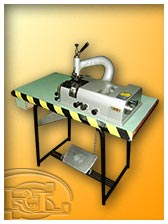
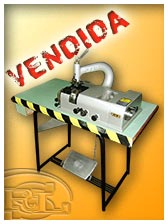
Added: Lijar de banda 'FERCA M-1010'. Updated: 'Ultimas' and some more...

diff --git a/maquinas/lijar-pulir/maqUs_maquina-lijar-de-banda_FERCA_M-1010.htm b/maquinas/lijar-pulir/maqUs_maquina-lijar-de-banda_FERCA_M-1010.htm
@@ -3,11 +3,10 @@
 
 <head>
 <meta http-equiv="Content-Type" content="text/html; charset=utf-8" />
-<title>RaLoS, Maquinaria USADA para Calzado | Máquina de Rebajar Piel con Aspiración y Embrague 'FAV AV2' (#1)</title>
-<meta name="keywords" content="fav av 2, fav av2, rebajar piel fav, rebajar piel, maquinaria rebajar piel, máquina rebajadora piel, máquina rebajar piel, máquina rebajar zapato, máquina rebajar zapatos, máquina rebajadora calzado, máquina rebajar calzado, máquina rebajadora zapato, máquina rebajadora zapatos, rebajar piel, rebajar segunda mano, rebajar ocasión, rebajar segunda mano, maquinaria usada zapatos, maquinas usadas zapatos, segunda mano, ocasion, ralos, Elda, Alicante" />
-
-<meta name="description" content="RaLoS, Maquinaria USADA para Calzado - Máquina de OCASIÓN para Rebajar Piel con Aspiración y Embrague 'FAV AV2'" />
-<meta name="creation_Date" content="04/01/2014" />
+<title>RaLoS, Maquinaria USADA para Calzado | Máquina de Lijar de Banda con Aspiración 'FERCA M-1010'</title>
+<meta name="keywords" content="lijar ferca, lijar ferca M-1010, lijar ferca M1010, ferca, ferca M-1010, ferca M1010, lijar segunda mano, lijar ocasion, lijar usada, maquina lijar, maquina lijar bandas, lijar bandas, lijar calzado, lijar zapatos, maquinaria lijar, lijado calzado, lijado zapatos, maquina cardar, cardar zapatos, cardar calzado, lijadoras, ralos, Elda, Alicante" />
+<meta name="description" content="RaLoS MAQUINARIA, dispone de una máquina de lijar de Banda, con aspiración y colector, de OCASIÓN para el Lijado del Zapato 'FERCA M-1010'" />
+<meta name="creation_Date" content="01/10/2014" />
 <meta name="geography" content="Fundadores de la Industria del Calzado, 4 (Bajos) - Elda (Alicante) 03600 SPAIN" />
 <meta name="language" content="spanish, español" />
 <meta name="robots" content="index, nofollow" />
@@ -71,7 +70,7 @@ counter++;
         </div>
     </div>
   </div>
-
+  
   <div id="mCFixedToLeft">
     <div id="mCFixedLeftMenu">
         <div id="mCFixedLeftMenuButtons">
@@ -87,15 +86,15 @@ counter++;
     <div class="divider4" style="min-height: 20px;"></div>
   	<div id="mainLogo"><a href="../../index.htm" target="_parent"><img src="../../assets/logoRalos.gif" alt="Inicio" name="logoRalos" width="324" height="102" border="0" /></a></div>
   	<!--<div id="mainLogoBg"></div>-->
-  	<div class="divider1"></div>
-		<h1 style="text-decoration: none; margin-bottom: 0px">RaLoS, MAQUINARIA USADA: Máquina de Rebajar Piel con Aspiración y Embrague &quot;FAV AV2&quot; (#1) (VENDIDA)</h1>
+<div class="divider1"></div>
+		<h1 style="text-decoration: none; margin-bottom: 0px">RaLoS, MAQUINARIA USADA: Máquina de Lijar de Banda &quot;FERCA&nbsp;M&#8209;1010&quot;</h1>
     <div class="divider2"></div>
     <div id="productContainer">
 			<ul>       
         <li id="n001">
         	<div class="liContainer"><a href="#n002" target="_self" title="Haz clic aquí para ir a la siguiente imagen.">
             <img class="outerImg" src="../../images/_mac_vOuterFrame_mTn.png" alt=""/>
-            <img class="vInnerImg" src="maqUs_rebajar-piel-con-aspiracion-y-embrague_FAV_AV2_N1_1h-v.jpg" alt="Máquina de Rebajar Piel con Aspiración y Embrague 'FAV AV2' #1 1"/>
+            <img class="vInnerImg" src="maqUs_maquina-lijar-de-banda_FERCA_M-1010_1h-v.jpg" alt="Máquina de Lijar de Banda 'FERCA M-1010' 1"/>
             <img class="spanPosFix" src="../../images/_mac_vOuterFrameFix_mTn.gif" alt=""/>
             <span></span></a>
           </div>
@@ -103,30 +102,21 @@ counter++;
         
         <li id="n002">
         	<div class="liContainer"><a href="#n003" target="_self" title="Haz clic aquí para ir a la siguiente imagen.">
-            <img class="outerImg" src="../../images/_mac_hOuterFrame_mTn.png" alt=""/>
-            <img class="hInnerImg" src="maqUs_rebajar-piel-con-aspiracion-y-embrague_FAV_AV2_N1_2h-h.jpg" alt="Máquina de Rebajar Piel con Aspiración y Embrague 'FAV AV2' #1 2"/>
-            <img class="spanPosFix" src="../../images/_mac_hOuterFrameFix_mTn.gif" alt=""/>
+            <img class="outerImg" src="../../images/_mac_vOuterFrame_mTn.png" alt=""/>
+            <img class="vInnerImg" src="maqUs_maquina-lijar-de-banda_FERCA_M-1010_2h-v.jpg" alt="Máquina de Lijar de Banda 'FERCA M-1010' 2"/>
+            <img class="spanPosFix" src="../../images/_mac_vOuterFrameFix_mTn.gif" alt=""/>
           	<span></span></a>
           </div>
         </li>
         
         <li id="n003">
-        	<div class="liContainer"><a href="#n004" target="_self" title="Haz clic aquí para ir a la siguiente imagen.">
+        	<div class="liContainer"><a href="#productDescription" target="_self" title="Haz clic aquí para ir a la información de la máquina.">
             <img class="outerImg" src="../../images/_mac_hOuterFrame_mTn.png" alt=""/>
-            <img class="hInnerImg" src="maqUs_rebajar-piel-con-aspiracion-y-embrague_FAV_AV2_N1_3h-h.jpg" alt="Máquina de Rebajar Piel con Aspiración y Embrague 'FAV AV2' #1 3"/>
+            <img class="hInnerImg" src="maqUs_maquina-lijar-de-banda_FERCA_M-1010_3h-h.jpg" alt="Máquina de Lijar de Banda 'FERCA M-1010' 3"/>
             <img class="spanPosFix" src="../../images/_mac_hOuterFrameFix_mTn.gif" alt=""/>
           	<span></span></a>
           </div>
         </li>
-        
-        <li id="n004">
-        	<div class="liContainer"><a href="#productDescription" target="_self" title="Haz clic aquí para ir a la información de la máquina.">
-            <img class="outerImg" src="../../images/_mac_vOuterFrame_mTn.png" alt=""/>
-            <img class="vInnerImg" src="maqUs_rebajar-piel-con-aspiracion-y-embrague_FAV_AV2_N1_4h-v.jpg" alt="Máquina de Rebajar Piel con Aspiración y Embrague 'FAV AV2' #1 4"/>
-            <img class="spanPosFix" src="../../images/_mac_vOuterFrameFix_mTn.gif" alt=""/>
-          	<span></span></a>
-          </div>
-        </li> 
           
 			</ul>
 		</div><!--end #productContainer-->
@@ -137,27 +127,30 @@ counter++;
           <th colspan="4" bgcolor="#FFFFFF"><h4>DESCRIPCIÓN DE LA MÁQUINA</h4></th>
         </tr>
         <tr>
-       		<td colspan="4"><p><span class="boldText">RaLoS</span> <span class="lThrought">dispone</span> de una máquina de rebajar piel con aspiración* y embrague <span class="boldText">&quot;FAV AV2&quot;</span> de segunda mano, en perfecto estado y lista para trabajar.</p>
-						<p style="margin-top: 12px">* <span style="font-size:80%">RaLoS también disponía de otra &quot;FAV AV2&quot; igual a esta pero <span class="uText"><span class="boldText">sin</span> aspiración</span>. Puedes verla <a href="maqUs_rebajar-piel-con-embrague_FAV_AV2.htm" target="mainFrame" class="boldText">haciendo clic <span class="uText">AQUÍ</span></a>.</span></p></td>
+       		<td colspan="4"><p><span class="boldText">RaLoS</span> dispone de una máquina de lijar y cardar con aspiración y colector <span class="boldText">&quot;FERCA M-1010&quot;</span> de segunda mano, en perfecto estado y lista para trabajar.</p></td>
         </tr>
         <tr bgcolor="#FFFFFF">
           <th colspan="4"><h4>CARACTERÍSTICAS TÉCNICAS</h4></th>
         </tr>
         <tr>
           <td width="50%" colspan="2"><span class="boldText">Conex. Eléctrica: </span>380 V - 50 Hz</td>
-          <td width="50%" colspan="2"><span class="boldText">Dimens. (An./Al./Pr.):</span> 104 x 115 x 58 cm</td>
+          <td width="50%" colspan="2"><span class="boldText">Eje Útil (largo de cada lado):</span> 25 mm</td>
         </tr>
         <tr>
           <td width="50%" colspan="2"><span class="boldText">Potencia Instalada:</span> N/D</td>
+          <td width="50%" colspan="2"><span class="boldText">Dimens. (An./Al./Pr.):</span> 90 x <span style="font-style:italic;">176</span> x 100 cm</td>
+        </tr>
+        <tr>
+          <td width="50%" colspan="2"><span class="boldText">Eje (diámetro):</span> 30 mm</td>
           <td width="50%" colspan="2"><span class="boldText">Peso (Neto):</span> N/D</td>
         </tr>
         <tr bgcolor="#FFFFFF">
           <th colspan="4"><h4>CARACTERÍSTICAS DE TRABAJO</h4></th>
         </tr>
 				<tr>
-       		<td colspan="4" align="center"><p>- Gran simplicidad de funcionamiento y alta precisión en los acabados.</p>
-     		  <p>- Grupo de aspiración acoplado en el cuerpo de la máquina.</p>
-     		  <p>- Embrague para proporcionar al trabajador  un mayor control de la velocidad.</p></td>
+       		<td colspan="4"><p>La máquina de lijar y cardar <span class="boldText">&quot;FERCA M-1010&quot;</span>, está provista de bandas de esmeril de longitud suficiente para evitar el calentamiento de la superficie abrasiva (obteniéndose una larga duración de la misma), así como de tensores de fácil accionamiento para lograr el rápido cambio de la banda  y la perfecta alineación de ésta.</p>
+						<p>El sistema de tensado es de columna telescópica y resorte interior permanente, para compensar la dilatación de las bandas durante el trabajo y mantener una perfecta adherencia con los rodillos de goma.</p>
+						<p>Todo el sistema va dentro de carcasas de protección con visores de metacrilato de fácil desmontaje, lo que permite un cambio rápido de las bandas de lija. Además, la máquina  está equipada con un potente aspirador que, unido al especial diseño de las caperuzas, consigue una total aspiración del material desprendido. Igulamente, el polvo producido en el lijado es conducido por la aspiración a través de un ciclón, que lo deposita en un saco de plástico para su posterior retirada.</p></td>
         </tr>
 
         <tr id="rowInfoHead">
@@ -167,10 +160,10 @@ counter++;
         </tr>
 
         <tr id="rowInfo">
-          <td width="25%" class="boldText">No disponible</td>
+          <td width="25%" class="boldText">Disponible</td>
           <td width="50%" colspan="2">Restaurada</td>
         <!--<td width="50%" colspan="2">Máquina revisada en nuestro taller.</td>-->
-          <td width="25%"><a href="http://www.ralosmaquinaria.com/mainFrameContact.htm?Maquina+de+Rebajar+Piel+con+Aspiracion+y+Embrague&'FAV+AV2'+N1&(OCASION)#formContainer" title="Ir al Formulario de Consulta" target="_self" class="boldText">Consultar</a></td>
+          <td width="25%"><a href="http://www.ralosmaquinaria.com/mainFrameContact.htm?Maquina+de+Lijar+de+Banda+con+Aspiracion&'FERCA+M-1010'&(OCASION)#formContainer" title="Ir al Formulario de Consulta" target="_self" class="boldText">Consultar</a></td>
   				</tr>
 			</table>
 		</div><!--end productDescription-->

diff --git a/maquinaria-Ultimas.htm b/maquinaria-Ultimas.htm
@@ -203,10 +203,10 @@ location.href="index.htm?" + document.URL
         </li>
 
 				<li id="n021" style="padding-top: 4px; padding-bottom: 60px;">
-        	<h2 style="text-decoration: none; margin-bottom: 6px"> <br /> <a href="http://www.ralosmaquinaria.com/maquinas/reparar/maqUs_banco-de-finisaje-con-prensa-y-clavado_PREY.htm" target="_self" title="Ir a la Página de la Máquina..."><img src="assets/handToRight.gif" alt="Ir a la Página de la Máquina..." align="top" border="0"> RaLoS, OCASIÓN: Banco de Finisaje (o Reparación ) para Calzado &quot;PREY&quot;</a></h2>
+        	<h2 style="text-decoration: none; margin-bottom: 6px"> <br /> <a href="http://www.ralosmaquinaria.com/maquinas/lijar-pulir/maqUs_maquina-lijar-de-banda_FERCA_M-1010.htm" target="_self" title="Ir a la Página de la Máquina..."><img src="assets/handToRight.gif" alt="Ir a la Página de la Máquina..." align="top" border="0"> RaLoS, OCASIÓN: Máquina de Lijar de Banda con Aspiración &quot;FERCA&nbsp;M&#8209;1010&quot;</a></h2>
           <div class="liContainer" style="max-height: 576px; max-width: 576px;"><a href="#n020" target="_self" title="Haz clic aquí para pasar a la siguiente máquina.">
             <img class="outerImg" src="images/_mac_vOuterFrame_mTn.png" alt="Haz clic aquí para pasar a la siguiente máquina."/>
-            <img class="vInnerImg" src="maquinas/reparar/maqUs_banco-de-finisaje-con-prensa-y-clavado_PREY_1h-v.jpg" alt="Banco de Finisaje para Calzado 'PREY'"/>
+            <img class="vInnerImg" src="maquinas/lijar-pulir/maqUs_maquina-lijar-de-banda_FERCA_M-1010_1h-v.jpg" alt="Máquina de Lijar de Banda con Aspiración 'FERCA M-1010'"/>
             <img class="spanPosFix" src="images/_mac_vOuterFrameFix_mTn.gif" alt="Haz clic aquí para pasar a la siguiente máquina."/></a>
   					
             <div id="productDescription">
@@ -219,11 +219,11 @@ location.href="index.htm?" + document.URL
                 </tr>
 
                 <tr id="rowInfo">
-                  <td width="10%" class="boldText">No disponible</td>
-                  <td width="10%">Restaurado</td>
+                  <td width="10%" class="boldText">Disponible</td>
+                  <td width="10%">Restaurada</td>
                   <!--googleoff: all-->
-                  <td width="10%" class="boldText"><a href="http://www.ralosmaquinaria.com/mainFrameContact.htm?Banco+de+Finisaje+con+Prensa+y+Clavado&'PREY'&(OCASION)#formContainer" title="Ir al Formulario de Consulta" target="_self" class="boldText">Consultar</a></td>
-                  <td width="10%" class="boldText"><a href="http://www.ralosmaquinaria.com/maquinas/reparar/maqUs_banco-de-finisaje-con-prensa-y-clavado_PREY.htm#productDescription" title="Ir Directamente a las Características de la Máquina" target="_self" class="boldText">Ver Detalles...</a></td>
+                  <td width="10%" class="boldText"><a href="http://www.ralosmaquinaria.com/mainFrameContact.htm?Maquina+de+Lijar+de+Banda+con+Aspiracion&'FERCA+M-1010'&(OCASION)#formContainer" title="Ir al Formulario de Consulta" target="_self" class="boldText">Consultar</a></td>
+                  <td width="10%" class="boldText"><a href="http://www.ralosmaquinaria.com/maquinas/lijar-pulir/maqUs_maquina-lijar-de-banda_FERCA_M-1010.htm#productDescription" title="Ir Directamente a las Características de la Máquina" target="_self" class="boldText">Ver Detalles...</a></td>
                   <!--googleon: all-->
                 </tr>
               </table>
@@ -379,10 +379,10 @@ location.href="index.htm?" + document.URL
 
         <li id="n015" style="padding-top: 4px; padding-bottom: 60px;">
         	<h2 style="text-decoration: none; margin-bottom: 6px"> <br /> 
-        	<a href="http://www.ralosmaquinaria.com/maquinas/centrar/maqUs_centrar-y-montar-puntas_ORMAC_CHALLENGER_835.htm" target="_self" title="Ir a la Página de la Máquina..."><img src="assets/handToRight.gif" alt="Ir a la Página de la Máquina..." align="top" border="0"> RaLoS, OCASIÓN: Máquina de Centrar y Montar Puntas ORMAC &quot;CHALLENGER&nbsp;835&quot;</a></h2>
+        	<a href="http://www.ralosmaquinaria.com/maquinas/marcar-caja/maqUs_marcar-caja_ORMAC_BABY-HIT-192.htm" target="_self" title="Ir a la Página de la Máquina..."><img src="assets/handToRight.gif" alt="Ir a la Página de la Máquina..." align="top" border="0"> RaLoS, OCASIÓN: Máquina de Marcar Caja Neumática &quot;ORMAC&nbsp;BABY&nbsp;HIT&nbsp;192&quot;</a></h2>
           <div class="liContainer" style="max-height: 576px; max-width: 576px;"><a href="#goToTop" target="_self" title="Haz clic en 'IR ARRIBA' para volver a la 1ª Máquina.">
             <img class="outerImg" src="images/_mac_vOuterFrame_mTn.png" alt="Haz clic aquí para pasar a la siguiente máquina."/>
-            <img class="vInnerImg" src="maquinas/centrar/maqUs_centrar-y-montar-puntas_ORMAC_CHALLENGER_835_1h-v.jpg" alt="Máquina de centrar ORMAC 'CHALLENGER 835'"/>
+            <img class="vInnerImg" src="maquinas/marcar-caja/maqUs_marcar-caja_ORMAC_BABY-HIT-192_1h-v.jpg" alt="Máquina de marcar caja neumática ORMAC 'BABY-HIT-192'"/>
             <img class="spanPosFix" src="images/_mac_vOuterFrameFix_mTn.gif" alt="Haz clic en 'IR ARRIBA' para volver a la 1ª Máquina."/></a>
             
             <div id="productDescription">
@@ -396,10 +396,10 @@ location.href="index.htm?" + document.URL
         
                 <tr id="rowInfo">
                   <td width="10%" class="boldText">Disponible</td>
-                  <td width="10%">En Condiciones de Trabajo</td>
+                  <td width="10%">Restaurada</td>
                   <!--googleoff: all-->
-                  <td width="10%" class="boldText"><a href="http://www.ralosmaquinaria.com/mainFrameContact.htm?Maquina+de+Centrar+y+Montar+Puntas&'ORMAC+CHALLENGER+835+Serie+Hi-Tech'&(OCASION)#formContainer" title="Ir al Formulario de Consulta" target="_self" class="boldText">Consultar</a></td>
-                  <td width="10%" class="boldText"><a href="http://www.ralosmaquinaria.com/maquinas/centrar/maqUs_centrar-y-montar-puntas_ORMAC_CHALLENGER_835.htm#productDescription" title="Ir Directamente a las Características de la Máquina" target="_self" class="boldText">Ver Detalles...</a></td>
+                  <td width="10%" class="boldText"><a href="http://www.ralosmaquinaria.com/mainFrameContact.htm?Maquina+de+Marcar+Caja+Neumatica&'ORMAC+BABY+HIT+192'&(OCASION)#formContainer" title="Ir al Formulario de Consulta" target="_self" class="boldText">Consultar</a></td>
+                  <td width="10%" class="boldText"><a href="http://www.ralosmaquinaria.com/maquinas/marcar-caja/maqUs_marcar-caja_ORMAC_BABY-HIT-192.htm#productDescription" title="Ir Directamente a las Características de la Máquina" target="_self" class="boldText">Ver Detalles...</a></td>
                   <!--googleon: all-->
                 </tr>
               </table>

diff --git a/maquinas/rebajar/maqUs_rebajar-piel-con-embrague_FAV_AV2.htm b/maquinas/rebajar/maqUs_rebajar-piel-con-embrague_FAV_AV2.htm
@@ -88,7 +88,7 @@ counter++;
   	<div id="mainLogo"><a href="../../index.htm" target="_parent"><img src="../../assets/logoRalos.gif" alt="Inicio" name="logoRalos" width="324" height="102" border="0" /></a></div>
   	<!--<div id="mainLogoBg"></div>-->
   	<div class="divider1"></div>
-		<h1 style="text-decoration: none; margin-bottom: 0px">RaLoS, MAQUINARIA USADA: Máquina de Rebajar Piel con Embrague &quot;FAV AV2&quot;</h1>
+		<h1 style="text-decoration: none; margin-bottom: 0px">RaLoS, MAQUINARIA USADA: Máquina de Rebajar Piel con Embrague &quot;FAV AV2&quot; (VENDIDA)</h1>
     <div class="divider2"></div>
     <div id="productContainer">
 			<ul>       
@@ -128,8 +128,8 @@ counter++;
           <th colspan="4" bgcolor="#FFFFFF"><h4>DESCRIPCIÓN DE LA MÁQUINA</h4></th>
         </tr>
         <tr>
-       		<td colspan="4"><p><span class="boldText">RaLoS</span> dispone de una máquina de rebajar piel con embrague <span class="boldText">&quot;FAV AV2&quot;</span> de segunda mano, en perfecto estado y lista para trabajar.</p>
-						<p style="margin-top: 12px">* <span style="font-size:80%">RaLoS también dispone de otra &quot;FAV AV2&quot; igual a esta pero <span class="uText"><span class="boldText">con</span> aspiración</span>. Puedes verla <a href="maqUs_rebajar-piel-con-aspiracion-y-embrague_FAV_AV2_N1.htm" target="mainFrame" class="boldText">haciendo clic <span class="uText">AQUÍ</span></a>.</span></p></td>
+       		<td colspan="4"><p><span class="boldText">RaLoS</span> <span class="lThrought">dispone</span> de una máquina de rebajar piel con embrague <span class="boldText">&quot;FAV AV2&quot;</span> de segunda mano, en perfecto estado y lista para trabajar.</p>
+						<p style="margin-top: 12px">* <span style="font-size:80%">RaLoS también disponía de otra &quot;FAV AV2&quot; igual a esta pero <span class="uText"><span class="boldText">con</span> aspiración</span>. Puedes verla <a href="maqUs_rebajar-piel-con-aspiracion-y-embrague_FAV_AV2_N1.htm" target="mainFrame" class="boldText">haciendo clic <span class="uText">AQUÍ</span></a>.</span></p></td>
         </tr>
         <tr bgcolor="#FFFFFF">
           <th colspan="4"><h4>CARACTERÍSTICAS TÉCNICAS</h4></th>
@@ -158,7 +158,7 @@ counter++;
         </tr>
 
         <tr id="rowInfo">
-          <td width="25%" class="boldText">Disponible</td>
+          <td width="25%" class="boldText">No disponible</td>
           <td width="50%" colspan="2">Restaurada</td>
         <!--<td width="50%" colspan="2">Máquina revisada en nuestro taller.</td>-->
           <td width="25%"><a href="http://www.ralosmaquinaria.com/mainFrameContact.htm?Maquina+de+Rebajar+Piel+con+Embrague&'FAV+AV2'&(OCASION)#formContainer" title="Ir al Formulario de Consulta" target="_self" class="boldText">Consultar</a></td>

diff --git a/index.htm b/index.htm
@@ -501,6 +501,15 @@ div .mainFooterContent {
 				</li>
 
         <li>
+					<div class="liContainer"><a href="maquinas/lijar-pulir/maqUs_maquina-lijar-de-banda_FERCA_M-1010.htm" target="mainFrame" title="Ver Lijadora &quot;ST&quot;">
+            <img class="outerImg" alt="" src="images/_mac_vOuterFrame_mTn.png"/>
+            <img class="vInnerImg" alt="Máquina de Lijar y Cardar de Banda &quot;FERCA M-1010&quot;" src="maquinas/lijar-pulir/maqUs_maquina-lijar-de-banda_FERCA_M-1010_1m-v.jpg"/>
+            <img class="spanPosFix" alt="" src="images/_mac_vOuterFrameFix_mTn.gif"/>
+            <span>Máquina de Lijar de banda &quot;FERCA&nbsp;M&#8209;1010&quot;</span></a>
+					</div>
+				</li>
+
+        <li>
 					<div class="liContainer"><a href="maquinas/lijar-pulir/maqUs_maquina-de-lijar_ST.htm" target="mainFrame" title="Ver Lijadora &quot;ST&quot;">
             <img class="outerImg" alt="" src="images/_mac_vOuterFrame_mTn.png"/>
             <img class="vInnerImg" alt="Máquina de Lijar &quot;ST&quot;" src="maquinas/lijar-pulir/maqUs_maquina-de-lijar_ST_1m-v.jpg"/>
@@ -749,15 +758,6 @@ div .mainFooterContent {
             <img class="hInnerImg" alt="Reactivador de Suelas Compacto tipo Parrilla &quot;MEGO&quot;" src="maquinas/reactivar/maqUs_reactivador-de-suelas-compacto_MEGO_1m-h.jpg"/>
             <img class="spanPosFix" alt="" src="images/_mac_hOuterFrameFix_mTn.gif"/>
             <span>Reactivador de Suelas Compacto (Parrilla) &quot;MEGO&quot;</span></a>
-					</div>
-        </li>
-
-        <li>
-					<div class="liContainer"><a href="maquinas/rebajar/maqUs_rebajar-piel-con-aspiracion-y-embrague_FAV_AV2_N1.htm" target="mainFrame" title="Ver Máquina de Rebajar Piel con Aspiración y Embrague &quot;FAV AV2&quot;">
-            <img class="outerImg" alt="" src="images/_mac_vOuterFrame_mTn.png"/>
-            <img class="vInnerImg" alt="Máquina de Rebajar Piel con Aspiración y Embrague &quot;FAV AV2&quot;" src="maquinas/rebajar/maqUs_rebajar-piel-con-aspiracion-y-embrague_FAV_AV2_N1_1m-v.jpg"/>
-            <img class="spanPosFix" alt="" src="images/_mac_vOuterFrameFix_mTn.gif"/>
-						<span>Rebajar Piel con Asp. y Embr. &quot;FAV AV2&quot; (#1)</span></a>
 					</div>
         </li>
 

diff --git a/maquinaria-Ocasion.htm b/maquinaria-Ocasion.htm
@@ -285,6 +285,12 @@ location.href="index.htm?" + document.URL
       <img class="IMGv" alt="Máquina de Coser de Columna 'FOMAX KDD-810'" src="maquinas/coser/maqUs_maquina-coser-columna_FOMAX_KDD-810_1m-v.jpg"/>
   		<span>Máquina de Coser de Columna &quot;FOMAX&nbsp;KDD&#8209;810&quot;</span></a>
       </div></li>
+
+      <li><div class="liContainer">
+      <a class="Av" href="maquinas/lijar-pulir/maqUs_maquina-lijar-de-banda_FERCA_M-1010.htm" target="mainFrame" title="Ver: Lijadora de Banda 'FERCA M-1010'">
+      <img class="IMGv" alt="Máquina de Lijar de Banda 'FERCA M-1010'" src="maquinas/lijar-pulir/maqUs_maquina-lijar-de-banda_FERCA_M-1010_1m-v.jpg"/>
+  		<span>Máquina de Lijar de Banda &quot;FERCA&nbsp;M&#8209;1010&quot;</span></a>
+      </div></li>
       
       <li><div class="liContainer">
       <a class="Av" href="maquinas/lijar-pulir/maqUs_maquina-de-lijar_ST.htm" target="mainFrame" title="Ver: Lijadora 'ST'">

diff --git a/maquinas/marcar-caja/maqUs_marcar-caja_ORMAC_BABY-HIT-192.htm b/maquinas/marcar-caja/maqUs_marcar-caja_ORMAC_BABY-HIT-192.htm
@@ -171,7 +171,7 @@ counter++;
           <td width="25%" class="boldText">Disponible</td>
           <td width="50%" colspan="2">Restaurada</td>
         <!--<td width="50%" colspan="2">Máquina revisada en nuestro taller.</td>-->
-          <td width="25%"><a href="http://www.ralosmaquinaria.com/mainFrameContact.htm?Maquina+de+Marcar+Caja&'ORMAC+BABY+HIT+192'&(OCASION)#formContainer" title="Ir al Formulario de Consulta" target="_self" class="boldText">Consultar</a></td>
+          <td width="25%"><a href="http://www.ralosmaquinaria.com/mainFrameContact.htm?Maquina+de+Marcar+Caja+Neumatica&'ORMAC+BABY+HIT+192'&(OCASION)#formContainer" title="Ir al Formulario de Consulta" target="_self" class="boldText">Consultar</a></td>
   				</tr>
 			</table>
 		</div><!--end productDescription-->

diff --git a/maquinas/lijar-pulir/maqUs_maquina-de-lijar_ST.htm b/maquinas/lijar-pulir/maqUs_maquina-de-lijar_ST.htm
@@ -136,7 +136,7 @@ counter++;
           <th colspan="4" bgcolor="#FFFFFF"><h4>DESCRIPCIÓN DE LA MÁQUINA</h4></th>
         </tr>
         <tr>
-       		<td colspan="4"><p><span class="boldText">RaLoS</span> dispone de una máquina para lijar y cardar<span class="boldText"> &quot;ST&quot;</span> de segunda mano, totalmente restaurada en nuestro taller y lista para trabajar.</p></td>
+       		<td colspan="4"><p><span class="boldText">RaLoS</span> <span class="lThrought">dispone</span> de una máquina para lijar y cardar<span class="boldText"> &quot;ST&quot;</span> de segunda mano, totalmente restaurada en nuestro taller y lista para trabajar.</p></td>
         </tr>
         <tr bgcolor="#FFFFFF">
           <th colspan="4"><h4>CARACTERÍSTICAS TÉCNICAS</h4></th>

diff --git a/maquinas/lijar-pulir/maqUs_maquina-de-pulir_RAN_JVL-81.htm b/maquinas/lijar-pulir/maqUs_maquina-de-pulir_RAN_JVL-81.htm
@@ -87,7 +87,7 @@ counter++;
   	<div id="mainLogo"><a href="../../index.htm" target="_parent"><img src="../../assets/logoRalos.gif" alt="Inicio" name="logoRalos" width="324" height="102" border="0" /></a></div>
   	<!--<div id="mainLogoBg"></div>-->
 <div class="divider1"></div>
-		<h1 style="text-decoration: none; margin-bottom: 0px">RaLoS, MAQUINARIA USADA: Máquina de Pulir &quot;RAN JVL-81&quot;</h1>
+		<h1 style="text-decoration: none; margin-bottom: 0px">RaLoS, MAQUINARIA USADA: Máquina de Pulir &quot;RAN&nbsp;JVL&#8209;81&quot;</h1>
     <div class="divider2"></div>
     <div id="productContainer">
 			<ul>       
